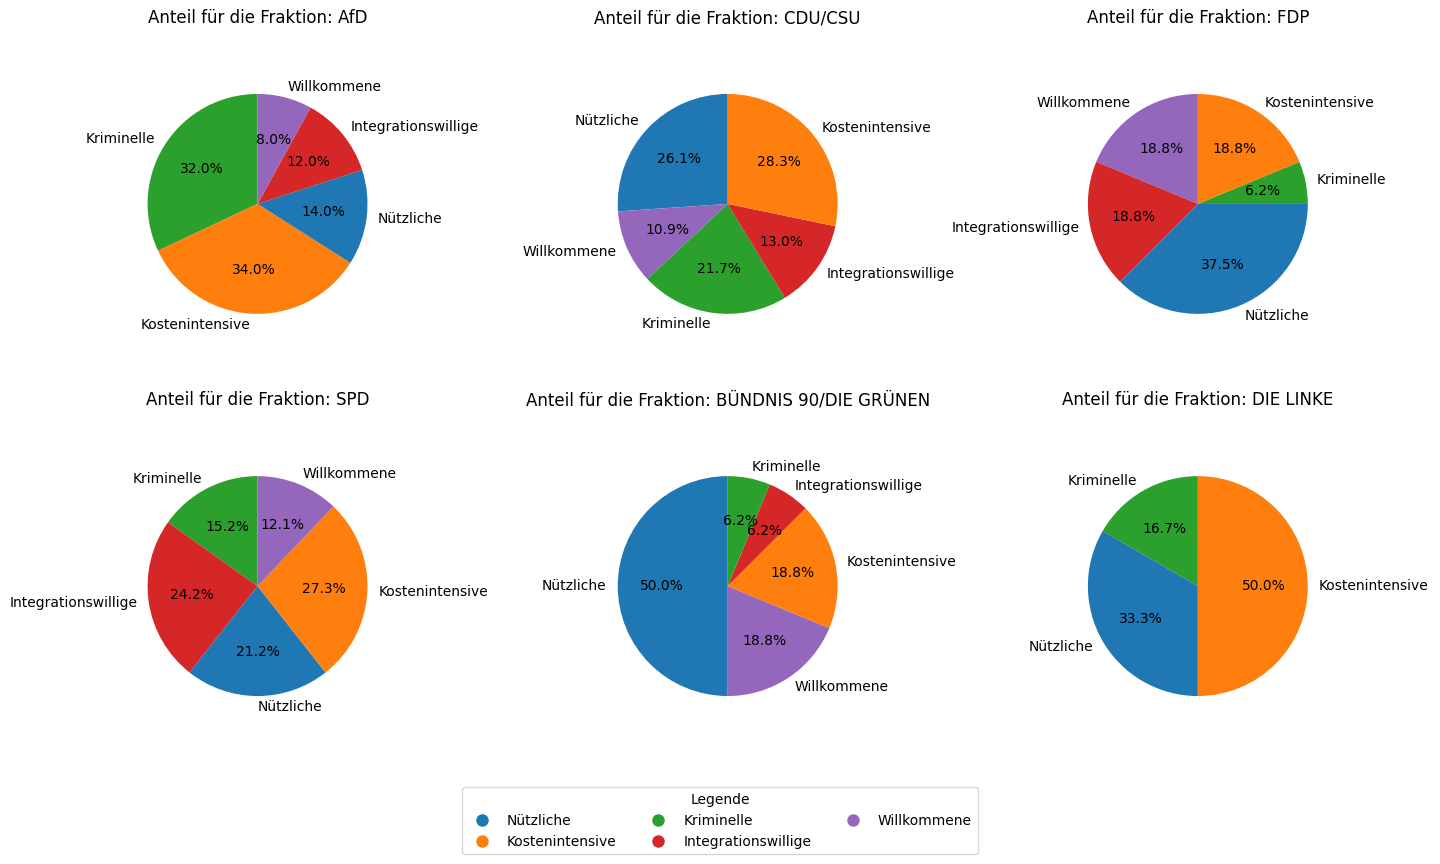
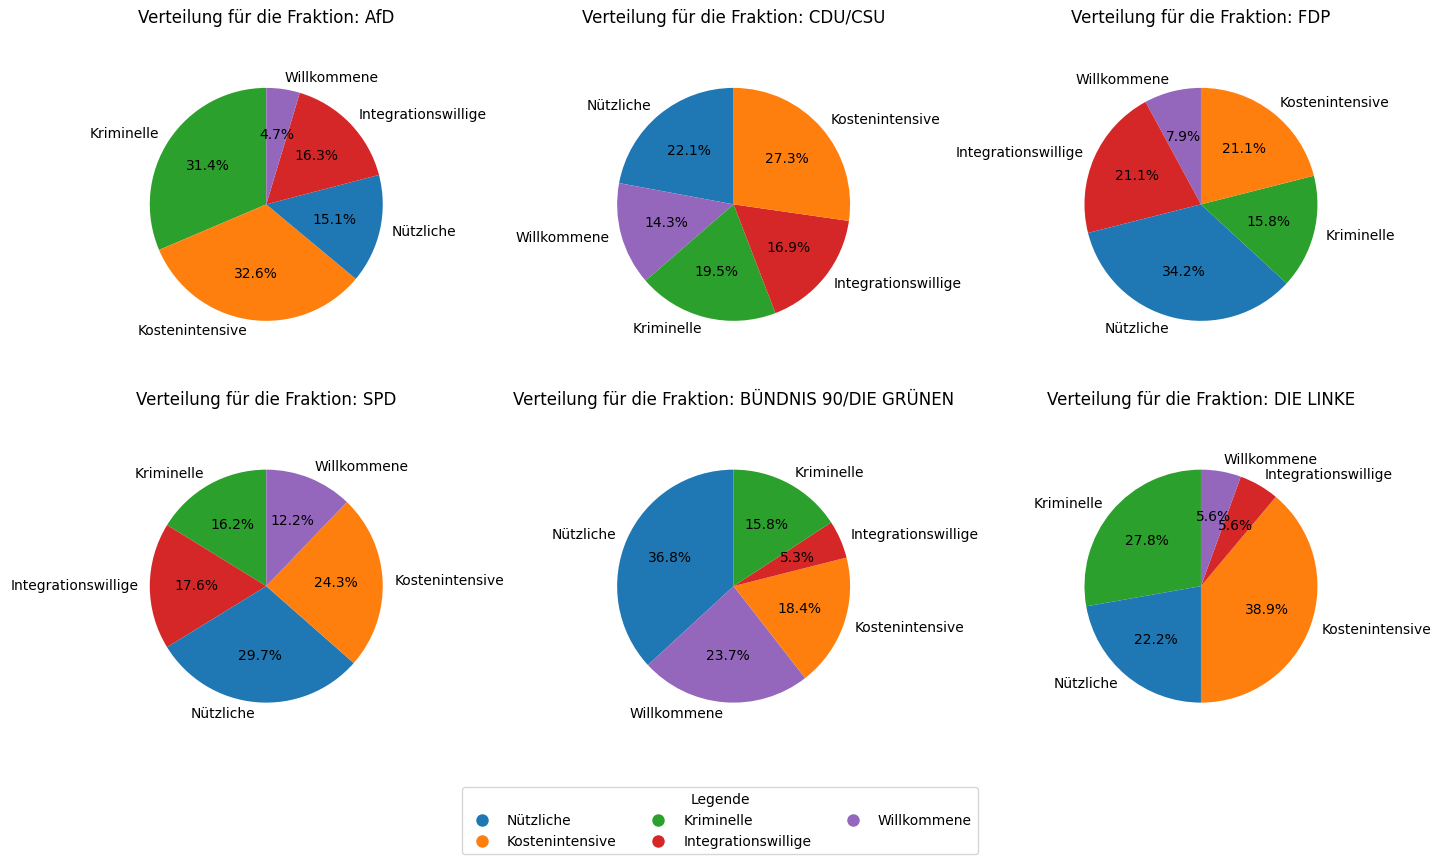
yolo

diff --git a/representation_party.py b/representation_party.py
@@ -22,11 +22,11 @@ for i, fraktion in enumerate(fraktionen):
     if total > 0:
         wedges, texts, autotexts = ax.pie(sizes, labels=labels, autopct='%1.1f%%', startangle=90,
                                           colors=[tag_color_map[label] for label in labels])
-        ax.set_title(f'Anteil für die Fraktion: {fraktion}')
+        ax.set_title(f'Verteilung für die Fraktion: {fraktion}')
         ax.axis('equal')
     else:
         ax.text(0.5, 0.5, 'Keine Daten', ha='center', va='center', fontsize=12)
-        ax.set_title(f'Anteil für die Fraktion: {fraktion}')
+        ax.set_title(f'Verteilung für die Fraktion: {fraktion}')
         ax.axis('off')
 
 handles = [plt.Line2D([0], [0], marker='o', color='w', label=tag,
